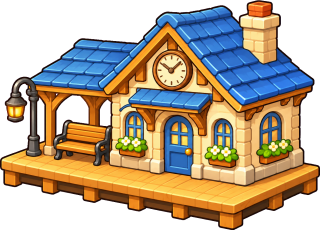
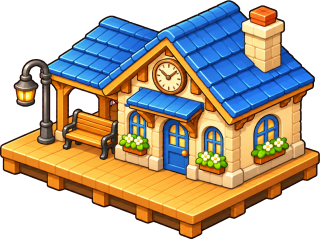
v0.34.2: new Train Station art
- Owner's new train_station.png (wooden platform, blue roof, clock, bench, lamp)
- AiArtImporter Spec.NudgeCells: shifts a picture by grid cells without moving the building;
  the station is nudged 0.45 cell away from the railway so the platform sits beside the rails
- Tests: 196 EditMode + 78 PlayMode passing

diff --git a/Assets/_Game/Editor/AiArtImporter.cs b/Assets/_Game/Editor/AiArtImporter.cs
@@ -52,6 +52,11 @@ namespace TownBuilder.EditorTools
             public Kind Kind;
             public int Width; // footprint width (Building/Flat), canvas width (Crop), square size (Icon)
             public int FootprintX = 1, FootprintY = 1;
+            /// <summary>
+            /// Moves the drawn picture by this many grid cells (X = screen up-right, Y = screen up-left) without moving the
+            /// building itself, for art whose base is a little deeper than its footprint (e.g. a platform over the railway).
+            /// </summary>
+            public Vector2 NudgeCells;
             /// <summary>Skip the magenta-fringe cleanup (for art that is itself pink, like the pink ribbon).</summary>
             public bool NoFringeFix;
             /// <summary>Set by processing: sprite pivot (bottom corner of the footprint for buildings).</summary>
@@ -77,7 +82,8 @@ namespace TownBuilder.EditorTools
             new Spec("town_hall", Art + "/Buildings/Community/PH_Building_town_hall.png", Kind.Building, 384),
             new Spec("barn", Art + "/Buildings/Production/PH_Building_barn.png", Kind.Building, 256),
             new Spec("bakery", Art + "/Buildings/Production/PH_Building_bakery.png", Kind.Building, 256),
-            new Spec("train_station", Art + "/Buildings/Community/PH_Building_train_station.png", Kind.Building, 320, 2, 3),
+            // The platform deck is a little deeper than the 2x3 footprint: shift the picture away from the railway (grid +X).
+            new Spec("train_station", Art + "/Buildings/Community/PH_Building_train_station.png", Kind.Building, 320, 2, 3) { NudgeCells = new Vector2(0.45f, 0f) },
             // Vehicles are long diagonal shapes: measure the whole object (Flat), not the lower 40% (Building).
             new Spec("train", Art + "/Vehicles/PH_Vehicle_train.png", Kind.Flat, 384, 1, 5),
             new Spec("silo", Art + "/Buildings/Production/PH_Building_silo.png", Kind.Building, 128),
@@ -243,6 +249,13 @@ namespace TownBuilder.EditorTools
 
                 var image = Load(source);
                 var output = Process(image, spec);
+                if (spec.NudgeCells != Vector2.zero)
+                {
+                    // One grid cell along X is (0.5, 0.25) world units, along Y (-0.5, 0.25). Moving the picture by w = moving
+                    // the pivot by -w (in pixels, as a share of the sprite size).
+                    var world = spec.NudgeCells.x * new Vector2(0.5f, 0.25f) + spec.NudgeCells.y * new Vector2(-0.5f, 0.25f);
+                    spec.Pivot -= new Vector2(world.x * ArtConventions.PixelsPerUnit / output.W, world.y * ArtConventions.PixelsPerUnit / output.H);
+                }
                 WritePng(output, spec.Target);
                 ConfigureImporter(spec);
                 done.Add($"{spec.Source} -> {Path.GetFileName(spec.Target)} ({output.W}x{output.H})");

diff --git a/Documentation/PlaytestGuide.md b/Documentation/PlaytestGuide.md
@@ -1,11 +1,11 @@
-# Playtest guide (v0.34.1)
+# Playtest guide (v0.34.2)
 
 One place for testing the game on a real Android phone. The detailed per-feature checklists stay in
 DevelopmentRoadmap.md; this guide is the order to play in and what to write down.
 
 ## 1. Install
 
-APK: `Builds/Android/TownBuilder-0.34.1-47.apk` (37 MB, test build, test ads only, developer mode included).
+APK: `Builds/Android/TownBuilder-0.34.2-48.apk` (37 MB, test build, test ads only, developer mode included).
 
 **Option A: copy the file (no cable needed)**
 1. Upload the APK to Google Drive (or send it to yourself), open it on the phone.
@@ -18,7 +18,7 @@ APK: `Builds/Android/TownBuilder-0.34.1-47.apk` (37 MB, test build, test ads onl
 2. Connect the cable, tap **Allow** on the "Allow USB debugging?" popup.
 3. Tell me, and I'll run the install with Unity's `adb`, or run it yourself:
    ```
-   "C:\Program Files\Unity\Hub\Editor\6000.6.8f1\Editor\Data\PlaybackEngines\AndroidPlayer\SDK\platform-tools\adb.exe" install -r "D:\01-Projects\05-Township\TownBuilder\Builds\Android\TownBuilder-0.34.1-47.apk"
+   "C:\Program Files\Unity\Hub\Editor\6000.6.8f1\Editor\Data\PlaybackEngines\AndroidPlayer\SDK\platform-tools\adb.exe" install -r "D:\01-Projects\05-Township\TownBuilder\Builds\Android\TownBuilder-0.34.2-48.apk"
    ```
 
 ## 2. Session A: a new town (30–45 minutes, sound on)
